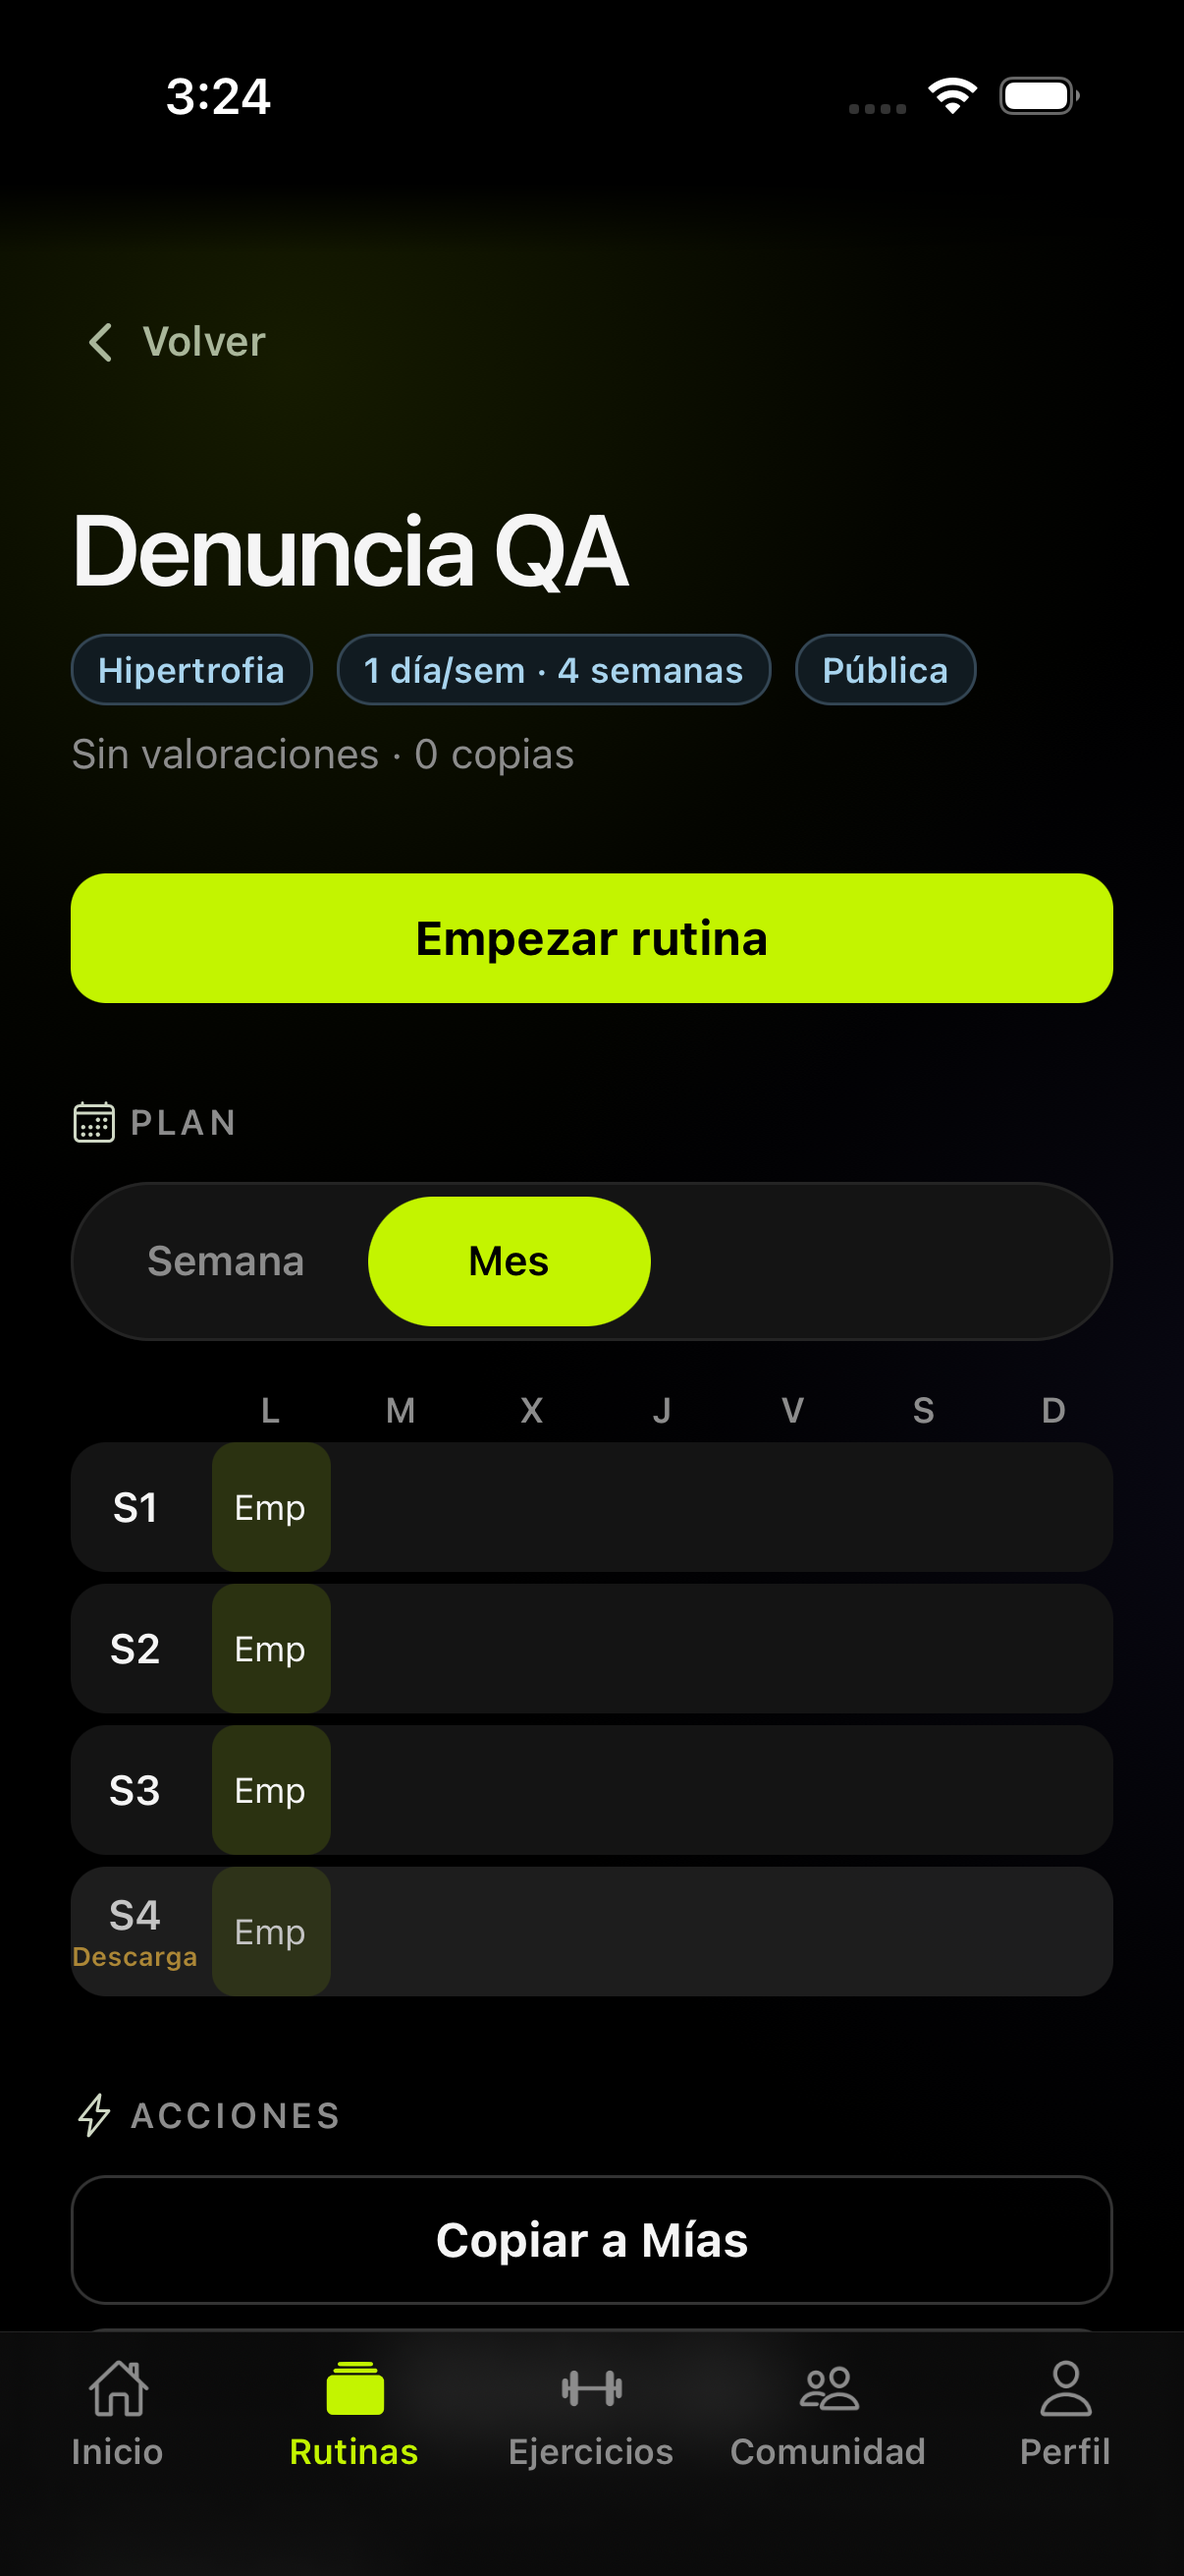
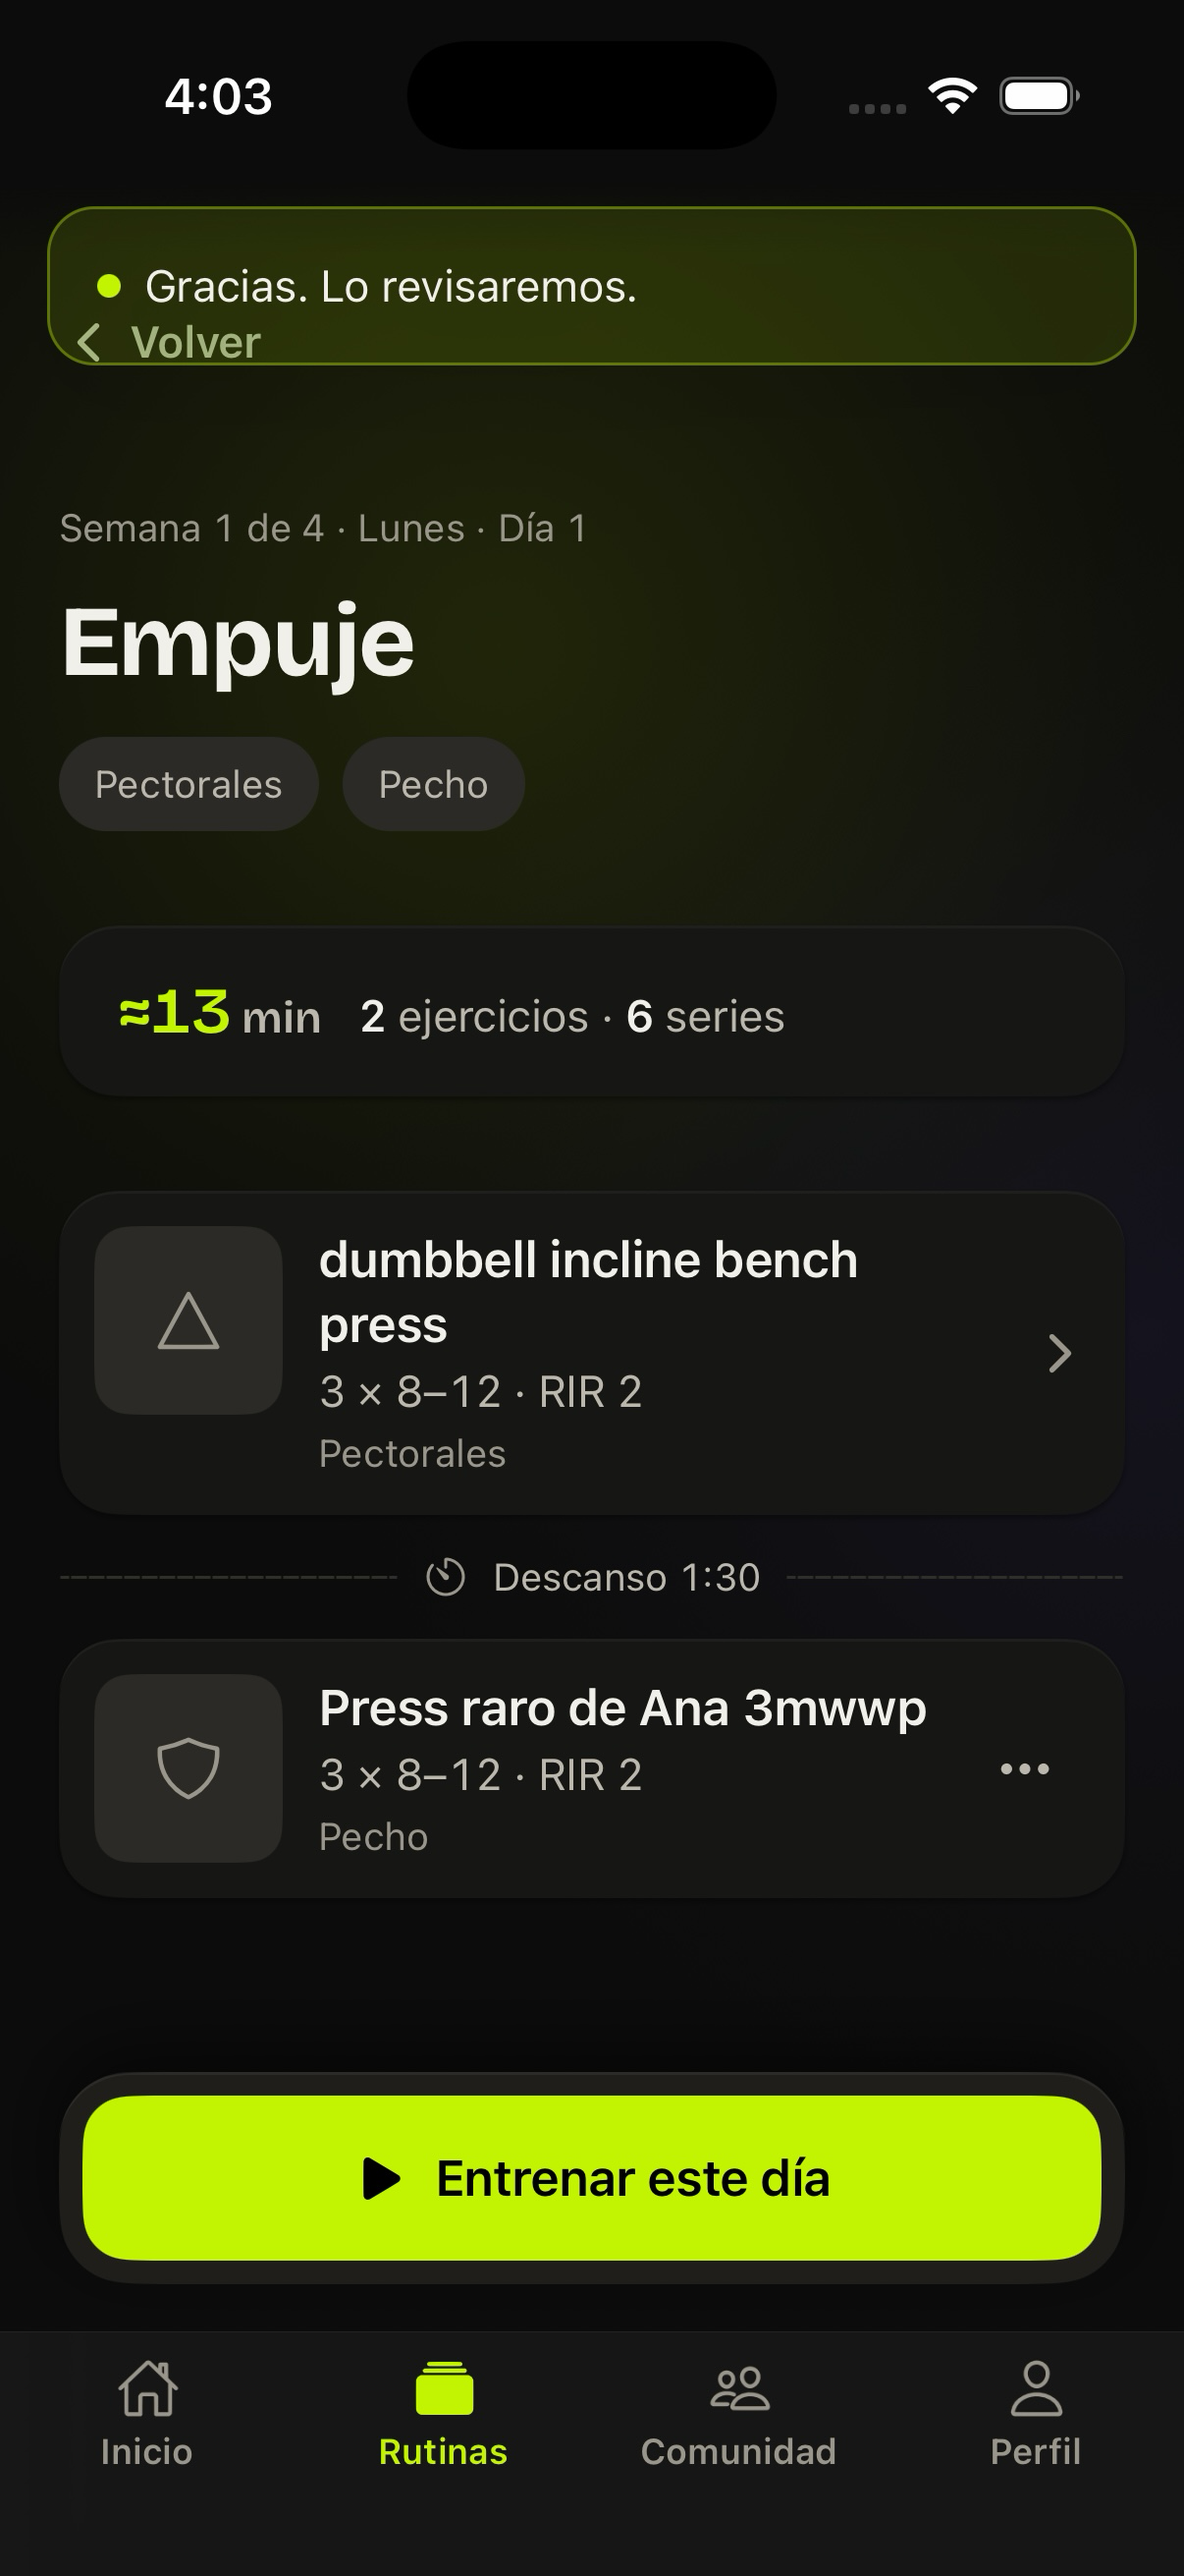
test(maestro): 15b/15c regraban RF-12 p03 (comentario publicado) y p04 (aviso de denuncia con fotogramas simctl)

diff --git a/apps/mobile/.maestro/scripts-routine-id.js b/apps/mobile/.maestro/scripts-routine-id.js
@@ -1,0 +1,18 @@
+// Busca una rutina por nombre exacto con la API y deja su id en `output.routineId`, para abrirla por enlace
+// profundo (`gymsheet:///routines/<id>`) sin pasar por el buscador del catálogo (con muchas rutinas en la
+// cuenta la tarjeta queda bajo la barra de pestañas). Variables: EMAIL, ROUTINE_NAME y SCOPE (`mine` | `public`).
+var base = 'http://localhost:3011/api/v1';
+function call(method, path, token, body) {
+  var response = http.request(base + path, {
+    method: method,
+    headers: { 'Content-Type': 'application/json', Authorization: token ? 'Bearer ' + token : '' },
+    body: body ? JSON.stringify(body) : undefined,
+  });
+  return JSON.parse(response.body);
+}
+var token = call('POST', '/auth/login', null, { email: EMAIL, password: 'MockLocal2026!' }).data.accessToken;
+var list = call('GET', '/routines?scope=' + SCOPE + '&q=' + encodeURIComponent(ROUTINE_NAME) + '&limit=50', token).data.items;
+var id = null;
+for (var i = 0; i < list.length; i += 1) { if (list[i].nombre === ROUTINE_NAME) { id = list[i].id; break; } }
+if (!id) throw new Error('No existe la rutina ' + ROUTINE_NAME + ' en ' + SCOPE);
+output.routineId = id;
